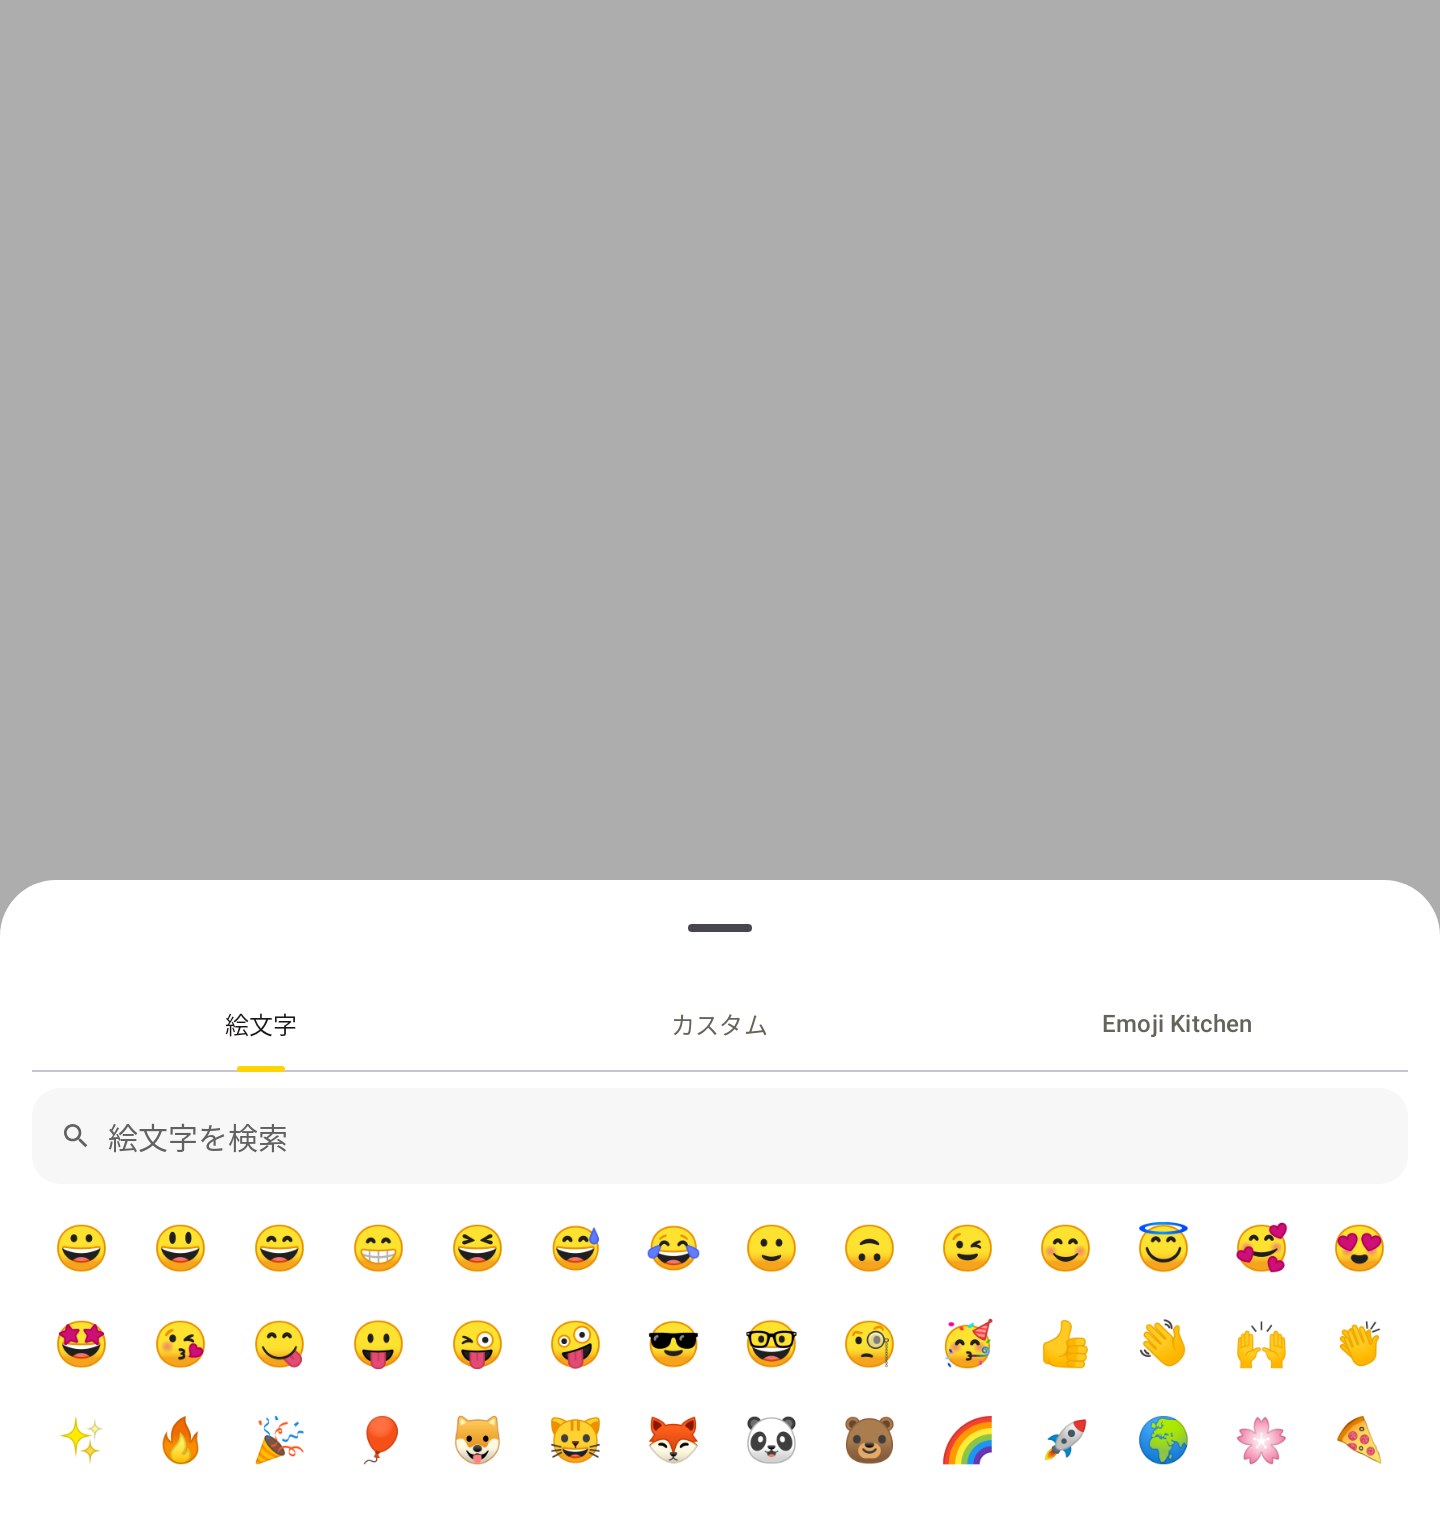
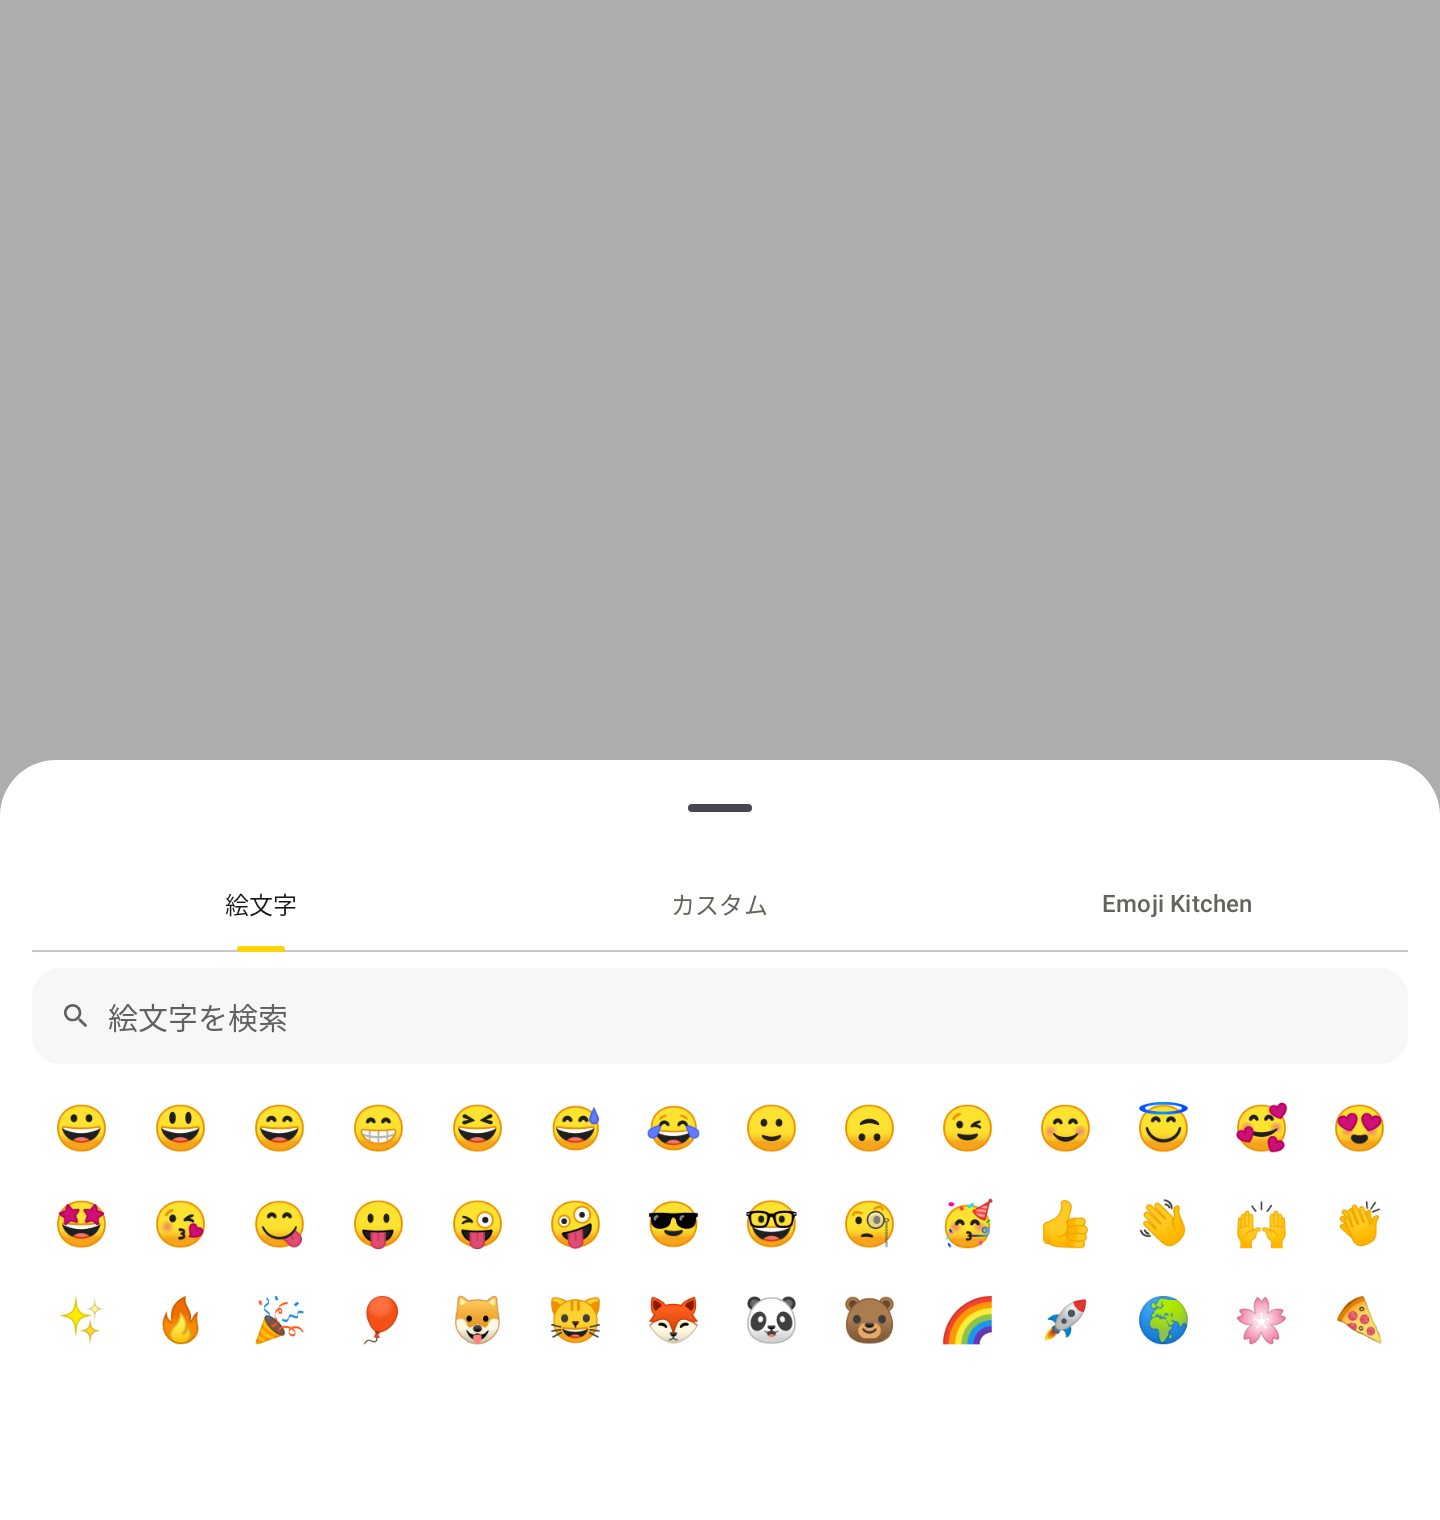
test(android): 末尾とスクロール復元を検証し画面サンプルを更新する

diff --git a/frontend-compose/ui-preview/src/test/kotlin/zoo/android/ui/ConversationScrollTest.kt b/frontend-compose/ui-preview/src/test/kotlin/zoo/android/ui/ConversationScrollTest.kt
@@ -66,9 +66,15 @@ class ConversationScrollTest {
         }
 
         val list = ui.onNodeWithTag("conversation-timeline")
-        ui.onNodeWithTag("timeline-entry-e40").assertIsDisplayed()
+        fun assertAtEnd(id: String) {
+            val last = ui.onNodeWithTag("timeline-entry-$id").assertIsDisplayed().fetchSemanticsNode()
+            assertEquals(list.fetchSemanticsNode().boundsInRoot.bottom, last.positionInRoot.y + last.size.height, 1f)
+        }
+        assertAtEnd("e40")
+        ui.onNode(hasSetTextAction()).performClick()
+        assertAtEnd("e40")
         ui.runOnIdle { height = 430.dp }
-        ui.onNodeWithTag("timeline-entry-e40").assertIsDisplayed()
+        assertAtEnd("e40")
 
         list.performTouchInput { swipeDown() }
         list.performScrollToIndex(12)
@@ -78,9 +84,9 @@ class ConversationScrollTest {
         history.assertIsDisplayed()
 
         ui.runOnIdle { screen = screen.copy(input = InputState(lastSend = "send-1")) }
-        ui.onNodeWithTag("timeline-entry-e40").assertIsDisplayed()
+        assertAtEnd("e40")
         ui.runOnIdle { screen = screen.copy(entries = entries + TimelineItem("sent", "はる", "送信済み", "12:01")) }
-        ui.onNodeWithTag("timeline-entry-sent").assertIsDisplayed()
+        assertAtEnd("sent")
     }
 
     @Test
@@ -97,7 +103,7 @@ class ConversationScrollTest {
         val originalTop = history.fetchSemanticsNode().boundsInRoot.top
 
         ui.runOnIdle { screen = AndroidScreen.Channels(emptyList()) }
-        ui.onNodeWithText("チャンネル").assertIsDisplayed()
+        list.assertDoesNotExist()
         val earlier = (1..5).map { TimelineItem("earlier-$it", "はる", "過去 $it", "11:00") }
         ui.runOnIdle { screen = channel.copy(entries = emptyList()) }
         ui.onNodeWithTag("conversation-timeline").assertDoesNotExist()

diff --git a/frontend-compose/androidApp/src/main/kotlin/zoo/android/ConnectedScreens.kt b/frontend-compose/androidApp/src/main/kotlin/zoo/android/ConnectedScreens.kt
@@ -296,11 +296,13 @@ internal fun ConnectedScreens(
     // 始めた検証も出せるよう、画面を切り替える早期の return より前に置く。
     VerificationHost(session, platform)
     if (call == null && state.overlay == "app-update") {
-        zoo.android.update.UpdateSettings(androidx.compose.ui.platform.LocalContext.current, env.dark, env.locale, ::back)
+        pageState.SaveableStateProvider("app-update") {
+            zoo.android.update.UpdateSettings(androidx.compose.ui.platform.LocalContext.current, env.dark, env.locale, ::back)
+        }
         return
     }
     if (call == null && state.overlay == "encryption" && platform.e2ee != null) {
-        EncryptionRoute(session, platform, ::back)
+        pageState.SaveableStateProvider("encryption") { EncryptionRoute(session, platform, ::back) }
         return
     }
     val profile = state.profile
@@ -445,7 +447,7 @@ internal fun ConnectedScreens(
         }
         Box(Modifier.weight(1f)) {
             if (!showFullCall && (state.overlay == "sip" || (state.overlay == null && sipRoute))) {
-                SipRoute(session, phone, users, ::back)
+                pageState.SaveableStateProvider("sip") { SipRoute(session, phone, users, ::back) }
             } else {
                 CompositionLocalProvider(
                     LocalTimelineImage provides { media -> timelineImage(session, media) },

diff --git a/frontend-compose/androidApp/src/main/kotlin/zoo/android/ui/AndroidScreens.kt b/frontend-compose/androidApp/src/main/kotlin/zoo/android/ui/AndroidScreens.kt
@@ -565,8 +565,11 @@ private fun ColumnScope.TimelineWithInput(
     // Only follow those changes while the reader is at the end or has just sent a message.
     LaunchedEffect(scroll) {
         var wasScrolling = false
+        var previousLayout = scroll.layoutInfo
         snapshotFlow { Triple(scroll.isScrollInProgress, scroll.layoutInfo, followEnd) }
             .collect { (scrolling, layout, _) ->
+                val remeasured = layout !== previousLayout
+                previousLayout = layout
                 if (scrolling) {
                     wasScrolling = true
                     restorePending = false
@@ -576,7 +579,7 @@ private fun ColumnScope.TimelineWithInput(
                         wasScrolling = false
                     }
                     if (layout.viewportSize.height > 0 && layout.totalItemsCount > 0) {
-                        if (!scroll.canScrollForward && !restorePending) followEnd = true
+                        if (remeasured && !scroll.canScrollForward && !restorePending) followEnd = true
                         if (followEnd && scroll.canScrollForward) {
                             val lastIndex = layout.totalItemsCount - 1
                             val offset = layout.visibleItemsInfo.lastOrNull()?.takeIf { it.index == lastIndex }?.size ?: 0

diff --git a/docs/android-rebuild-samples.md b/docs/android-rebuild-samples.md
@@ -49,7 +49,7 @@
 | 全文検索・古い月が残る | [ライト](images/android-design/rebuild/search-older-light.png) | [ダーク](images/android-design/rebuild/search-older-dark.png) |
 | 全文検索・エラー | [ライト](images/android-design/rebuild/search-error-light.png) | [ダーク](images/android-design/rebuild/search-error-dark.png) |
 
-絵文字ピッカーは画面幅に応じて列数を変える。720dp幅の表示では14列になる。[ワイド表示（1440×1520px）](images/android-design/rebuild/emoji-picker-wide-light.png)
+絵文字ピッカーは画面下部に開き、つまみを上にドラッグすると全画面へ広がる。画面幅に応じて列数を変える。720dp幅の表示では14列になる。[ワイド表示（1440×1520px）](images/android-design/rebuild/emoji-picker-wide-light.png)
 
 ```sh
 cd frontend-compose
